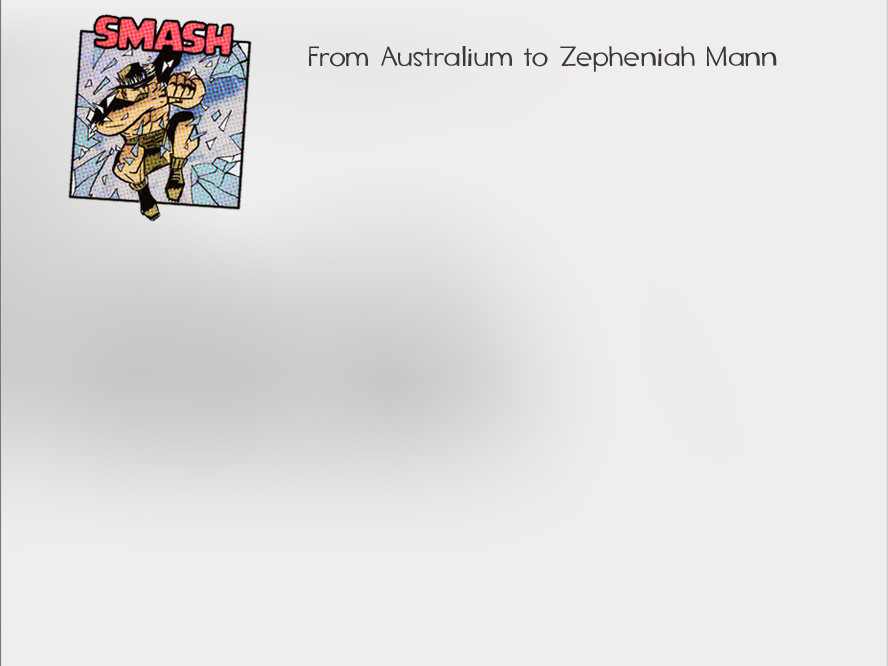
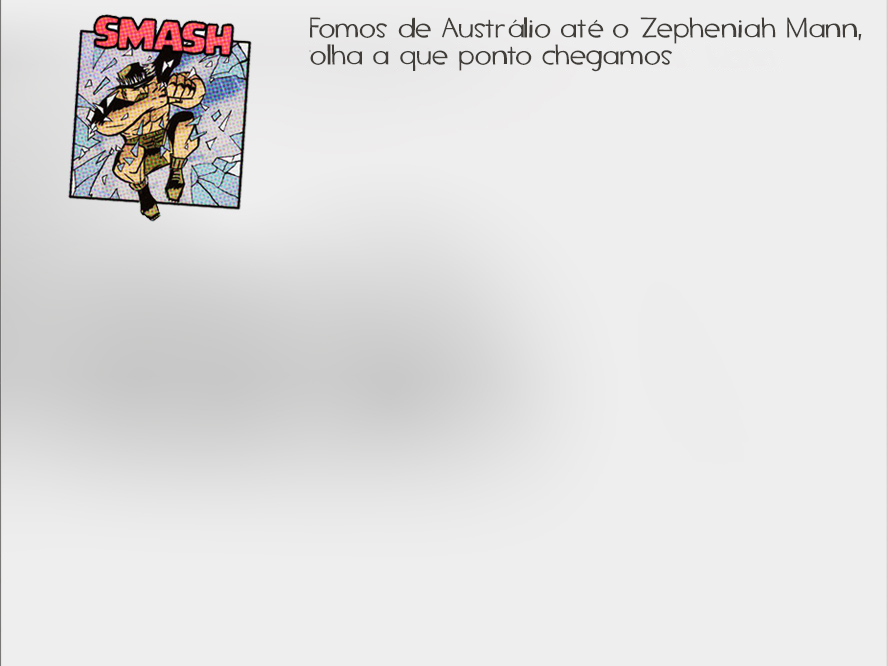
página principal

Changed region(s): [[0.3345, 0.03, 0.973, 0.1201]]

diff --git a/index.htm b/index.htm
@@ -7,7 +7,7 @@
 
 <link rel="shortcut icon" href="https://www.teamfortress.com/images/favicon.ico">
 
-<title>Team Fortress 2 - Comics</title>
+<title>Team Fortress 2 - Quadrinhos</title>
 
 <link rel="stylesheet" type="text/css" href="index_arquivos/comics.css">
 
@@ -32,53 +32,6 @@
 
 
 <body class="vsc-initialized">
-
-	<div id="navBarBGRepeat">
-
-		<div id="navBarShadow"></div>
-		<div id="navBarBG">
-
-			<div id="navBar">
-
-
-														<a class="navBarItem" href="https://www.teamfortress.com/">
-
-						<img border="0" class="top" src="index_arquivos/en_teamfortress_over.png">
-
-						<img border="0" class="bottom" src="index_arquivos/en_teamfortress.png">
-
-					</a>
-
-														<a class="navBarItem" href="https://steamcommunity.com/workshop/browse?appid=440" target="_blank">
-
-						<img border="0" class="top" src="index_arquivos/en_workshop_over.png">
-
-						<img border="0" class="bottom" src="index_arquivos/en_workshop.png">
-
-					</a>
-
-														<a class="navBarItem" href="https://wiki.teamfortress.com/" target="_blank">
-
-						<img border="0" class="top" src="index_arquivos/en_wiki_over.png">
-
-						<img border="0" class="bottom" src="index_arquivos/en_wiki.png">
-
-					</a>
-
-														<a class="navBarItem" href="https://steamcommunity.com/app/440" target="_blank">
-
-						<img border="0" class="top" src="index_arquivos/en_community_over.png">
-
-						<img border="0" class="bottom" src="index_arquivos/en_community.png">
-
-					</a>
-
-							</div>
-
-		</div>
-
-	</div>
-
 
 
 <script language="javascript">
@@ -128,15 +81,6 @@
 
 			<div id="logoLink"><a href="https://www.teamfortress.com/index.php"><img src="index_arquivos/trans.gif" width="270" height="60"></a></div>
 
-			<div id="spNavMenu">
-
-				<a class="aHoverVertShift" id="sp_menu_home" href="https://www.teamfortress.com/index.php"><img src="index_arquivos/trans.gif" width="80" height="28" border="0"></a>
-				<a class="aHoverVertShift" id="sp_menu_movies" href="https://www.teamfortress.com/movies.php"><img src="index_arquivos/trans.gif" width="99" height="28" border="0"></a>
-				<img class="aHoverVertShift" src="index_arquivos/sp_menu_comics_on.png" width="103" height="28" border="0">
-				<a class="aHoverVertShift" id="sp_menu_history" href="https://www.teamfortress.com/history.php"><img src="index_arquivos/trans.gif" width="115" height="28" border="0"></a>
-				<a class="aHoverVertShift" id="sp_menu_artwork" href="https://www.teamfortress.com/artwork.php"><img src="index_arquivos/trans.gif" width="123" height="28" border="0"></a>
-			</div>
-
 		</div>
 
 		<div id="centerColContent">
@@ -145,7 +89,7 @@
 
 				<p>
 
-					TF2 não começou com muita história. Não havia espaço para isso. Mas, à medida que as atualizações se tornaram mais ambiciosas, encontramos a maneira perfeita de explorar o mundo dos mercenários: os quadrinhos. Com o passar dos anos, os quadrinhos geraram personagens secundários, depois assistentes desses personagens secundários. Empresas mencionadas de passagem se tornaram impérios globais com três gerações de idade. O jogo que começou com um punhado de caras no deserto atirando uns nos outros lentamente floresceu na história mais complexa da história da Valve.
+					TF2 não começou com muita história. Não havia espaço para isso. Mas, à medida que as atualizações se tornaram mais ambiciosas, encontramos a maneira perfeita de explorar o mundo dos mercenários: os quadrinhos. Com o passar dos anos, os quadrinhos geraram personagens secundários, depois assistentes desses personagens secundários. Empresas mencionadas de forma superficial se tornaram impérios globais com três gerações. O jogo que começou com um punhado de caras no deserto atirando uns nos outros lentamente floresceu na história mais complexa da história da Valve.
 
 				</p>
 
@@ -329,9 +273,9 @@
 
 						<div class="comic_caption">
 
-							<span class="caption_main"><a href="https://www.teamfortress.com/theshowdown/">The Showdown</a></span>
+							<span class="caption_main"><a href="https://www.teamfortress.com/theshowdown/">A Disputa</a></span>
 
-							<span class="caption_date">July 7, 2016</span>
+							<span class="caption_date">7 de julho de 2016</span>
 
 						</div>
 
@@ -345,9 +289,9 @@
 
 						<div class="comic_caption">
 
-							<span class="caption_main"><a href="https://www.teamfortress.com/gargoyles_and_gravel/">Gargoyles &amp; Gravel - Scream Fortress 7</a></span>
+							<span class="caption_main"><a href="https://www.teamfortress.com/gargoyles_and_gravel/">Gárgulas &amp; Cascalhos - Scream Fortress 7</a></span>
 
-							<span class="caption_date">October 28, 2015</span>
+							<span class="caption_date">28 de outubro 2015</span>
 
 						</div>
 
@@ -361,9 +305,9 @@
 
 						<div class="comic_caption">
 
-							<span class="caption_main"><a href="https://www.teamfortress.com/thecontract/">The Contract</a></span>
+							<span class="caption_main"><a href="https://www.teamfortress.com/thecontract/">O Contrato</a></span>
 
-							<span class="caption_date">July 2, 2015</span>
+							<span class="caption_date">2 de julho 2015</span>
 
 						</div>
 
@@ -377,9 +321,9 @@
 
 				       <div class="comic_caption">
 
-						      <span class="caption_main"><a href="https://www.teamfortress.com/bloodmoney/">Blood Money</a></span>
+						      <span class="caption_main"><a href="https://www.teamfortress.com/bloodmoney/">Dinheiro Sujo</a></span>
 
-						      <span class="caption_date">October 29, 2014</span>
+						      <span class="caption_date">29 de outubro 2014</span>
 
 				       </div>
 
@@ -397,9 +341,9 @@
 
 					<div class="comic_caption">
 
-						<span class="caption_main"><a href="https://www.teamfortress.com/gravematters/">Grave Matters</a></span>
+						<span class="caption_main"><a href="https://www.teamfortress.com/gravematters/">Quem Morre por Último, Morre Melhor</a></span>
 
-						<span class="caption_date">October 28, 2013</span>
+						<span class="caption_date">28 de outubro de 2013</span>
 
 					</div>
 
@@ -417,9 +361,9 @@
 
 					<div class="comic_caption">
 
-						<span class="caption_main"><a href="https://www.teamfortress.com/shadowboxers/">The Shadow Boxers</a></span>
+						<span class="caption_main"><a href="https://www.teamfortress.com/shadowboxers/">Espiões de Papelão</a></span>
 
-						<span class="caption_date">December 19, 2012</span>
+						<span class="caption_date">19 de dezembro de 2012</span>
 
 					</div>
 
@@ -437,9 +381,9 @@
 
 					<div class="comic_caption">
 
-						<span class="caption_main"><a href="https://www.teamfortress.com/doommates/">Doom-Mates</a></span>
+						<span class="caption_main"><a href="https://www.teamfortress.com/doommates/">Colegas de Quarto</a></span>
 
-						<span class="caption_date">October 24, 2012</span>
+						<span class="caption_date">24 de outubro 2012</span>
 
 					</div>
 
@@ -457,9 +401,9 @@
 
 					<div class="comic_caption">
 
-						<span class="caption_main"><a href="https://www.teamfortress.com/fateworsethanchess/">A Fate Worse Than Chess</a></span>
+						<span class="caption_main"><a href="https://www.teamfortress.com/fateworsethanchess/">Um Destino Mais Cruel que o do Xadrez</a></span>
 
-						<span class="caption_date">August 13, 2012</span>
+						<span class="caption_date">13 de agosto de 2012</span>
 
 					</div>
 
@@ -479,9 +423,9 @@
 
 					<div class="comic_caption">
 
-						<span class="caption_main"><a href="https://www.teamfortress.com/bloodbrothers/">Blood Brothers</a></span>
+						<span class="caption_main"><a href="https://www.teamfortress.com/bloodbrothers/">Irmãos de Sangue</a></span>
 
-						<span class="caption_date">August 12, 2012</span>
+						<span class="caption_date">12 de agosto 2012</span>
 
 					</div>
 
@@ -499,9 +443,9 @@
 
 					<div class="comic_caption">
 
-						<span class="caption_main"><a href="https://www.teamfortress.com/asmissmasstory/">A Smissmas Story</a></span>
+						<span class="caption_main"><a href="https://www.teamfortress.com/asmissmasstory/">Um Conto Natalino</a></span>
 
-						<span class="caption_date">December 15, 2011</span>
+						<span class="caption_date">15 de dezembro 2011</span>
 
 					</div>
 
@@ -519,9 +463,9 @@
 
 					<div class="comic_caption">
 
-						<span class="caption_main"><a href="https://www.teamfortress.com/truemeaning/">True Meaning</a></span>
+						<span class="caption_main"><a href="https://www.teamfortress.com/truemeaning/">O Verdadeiro Significado</a></span>
 
-						<span class="caption_date">December 13, 2011</span>
+						<span class="caption_date">13 de dezembro 2011</span>
 
 					</div>
 
@@ -541,7 +485,7 @@
 
 						<span class="caption_main"><a href="https://www.teamfortress.com/bombinomicon/">Bombinomicon</a></span>
 
-						<span class="caption_date">October 27, 2011</span>
+						<span class="caption_date">27 de outubro de 2011</span>
 
 					</div>
 
@@ -581,9 +525,9 @@
 
 					<div class="comic_caption">
 
-						<span class="caption_main"><a href="https://www.teamfortress.com/meetthedirector/">Meet the Director</a></span>
+						<span class="caption_main"><a href="https://www.teamfortress.com/meetthedirector/">Conheça o Diretor</a></span>
 
-						<span class="caption_date">May 5, 2011</span>
+						<span class="caption_date">5 de maio de 2011</span>
 
 					</div>
 
@@ -603,9 +547,9 @@
 
 					<div class="comic_caption">
 
-						<span class="caption_main"><a href="https://www.teamfortress.com/bidwells_big_plan/">Bidwell's Big Plan</a></span>
+						<span class="caption_main"><a href="https://www.teamfortress.com/bidwells_big_plan/">Bidwell e Seu Grande Plano</a></span>
 
-						<span class="caption_date">September 30, 2010</span>
+						<span class="caption_date">30 de setembro de 2010</span>
 
 					</div>
 
@@ -623,9 +567,9 @@
 
 					<div class="comic_caption">
 
-						<span class="caption_main"><a href="https://www.teamfortress.com/loosecanon/">Loose Canon</a></span>
+						<span class="caption_main"><a href="https://www.teamfortress.com/loosecanon/">Doido Varrido</a></span>
 
-						<span class="caption_date">July 2, 2010</span>
+						<span class="caption_date">2 de julho de 2010</span>
 
 					</div>
 
@@ -643,9 +587,9 @@
 
 					<div class="comic_caption">
 
-						<span class="caption_main"><a href="https://www.teamfortress.com/macupdate/comic/">A Visual History</a></span>
+						<span class="caption_main"><a href="https://www.teamfortress.com/macupdate/comic/">Uma História com Estilo</a></span>
 
-						<span class="caption_date">June 10, 2010</span>
+						<span class="caption_date">10 de junho de 2010</span>
 
 					</div>
 
@@ -663,9 +607,9 @@
 
 					<div class="comic_caption">
 
-						<span class="caption_main"><a href="https://www.teamfortress.com/war/administrator/">WAR!</a></span>
+						<span class="caption_main"><a href="https://www.teamfortress.com/war/administrator/">GUERRA!</a></span>
 
-						<span class="caption_date">December 17, 2009</span>
+						<span class="caption_date">17 de dezembro de 2009</span>
 
 					</div>
 
@@ -685,7 +629,7 @@
 
 						<span class="caption_main"><a href="https://www.teamfortress.com/sniper_vs_spy/day07_english.htm">The Insult That Made a "Jarate Master" Out of Sniper</a></span>
 
-						<span class="caption_date">May 20, 2009</span>
+						<span class="caption_date">20 de maio de 2009</span>
 
 					</div>
 
@@ -723,7 +667,7 @@
 
 					<a href="https://www.teamfortress.com/images/posts/001/sharks.jpg"><img src="index_arquivos/saxton_thrillingtales.png"></a>
 
-					<span class="caption_main">Series of Saxton Hale Comic Book Covers</span>
+					<span class="caption_main">Capas da coleção de quadrihos do Saxton Hale</span>
 
 				<span class="caption_date">2009</span>
 
